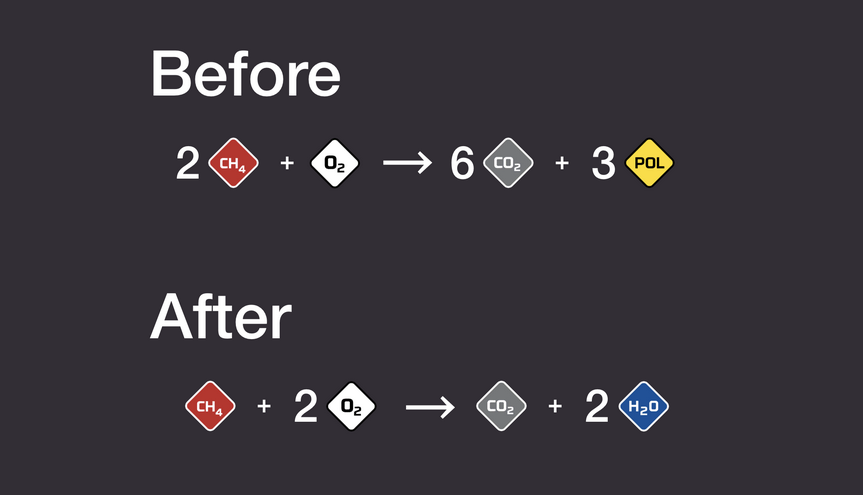
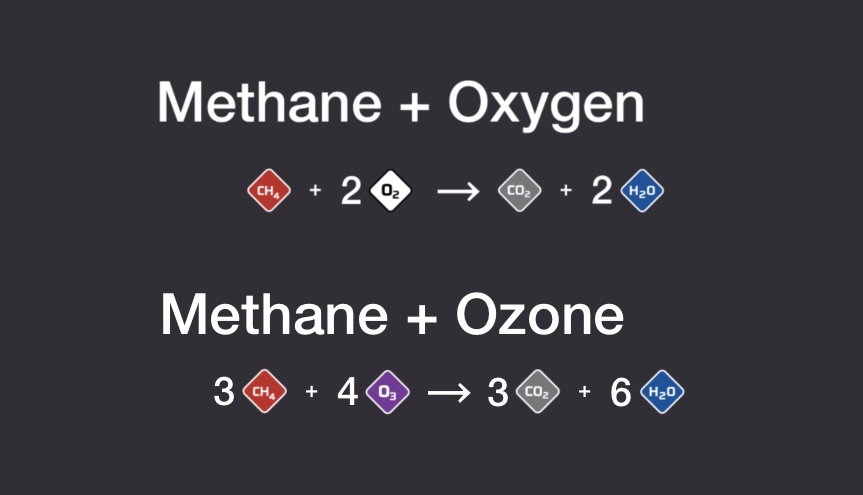
Update the images.

diff --git a/README.md b/README.md
@@ -2,7 +2,7 @@
 
 Fixes incorrect methane combustion reactions to be chemically accurate.
 
-![Stationeers Combustion Fix](Image.png)
+![Stationeers Combustion Fix](About/Preview.png)
 
 ## Methane + Oxygen
 